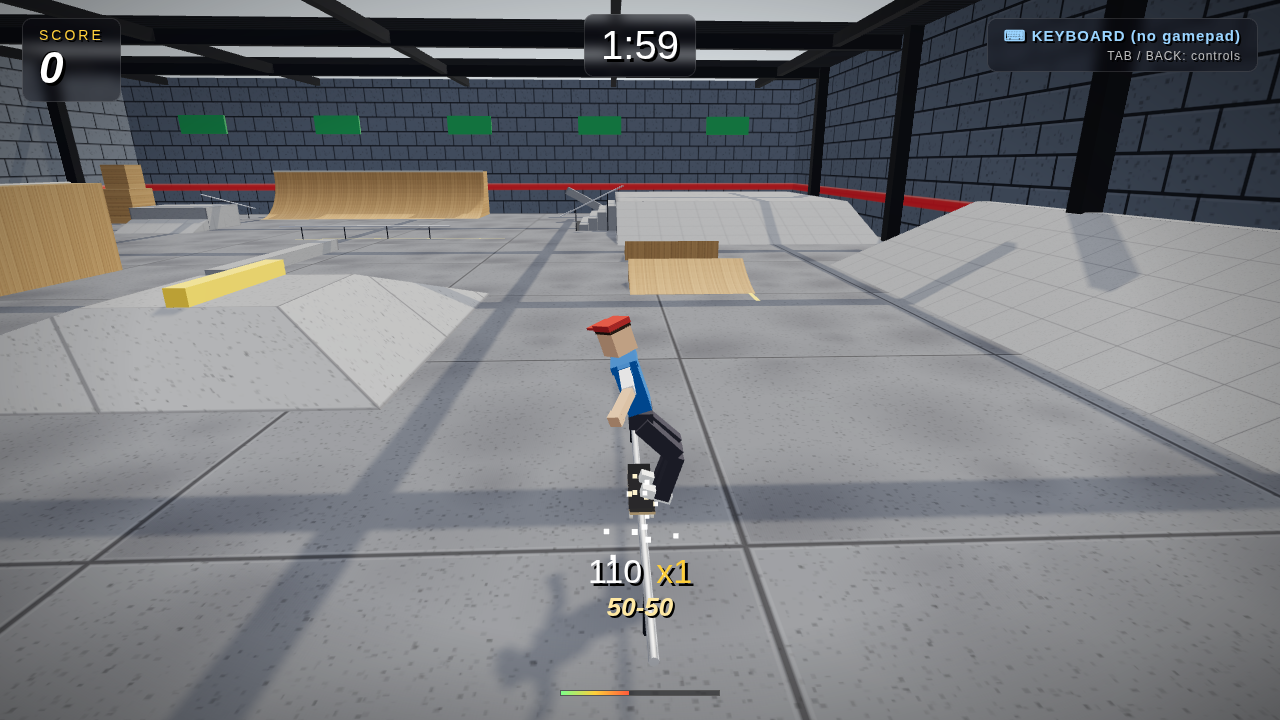
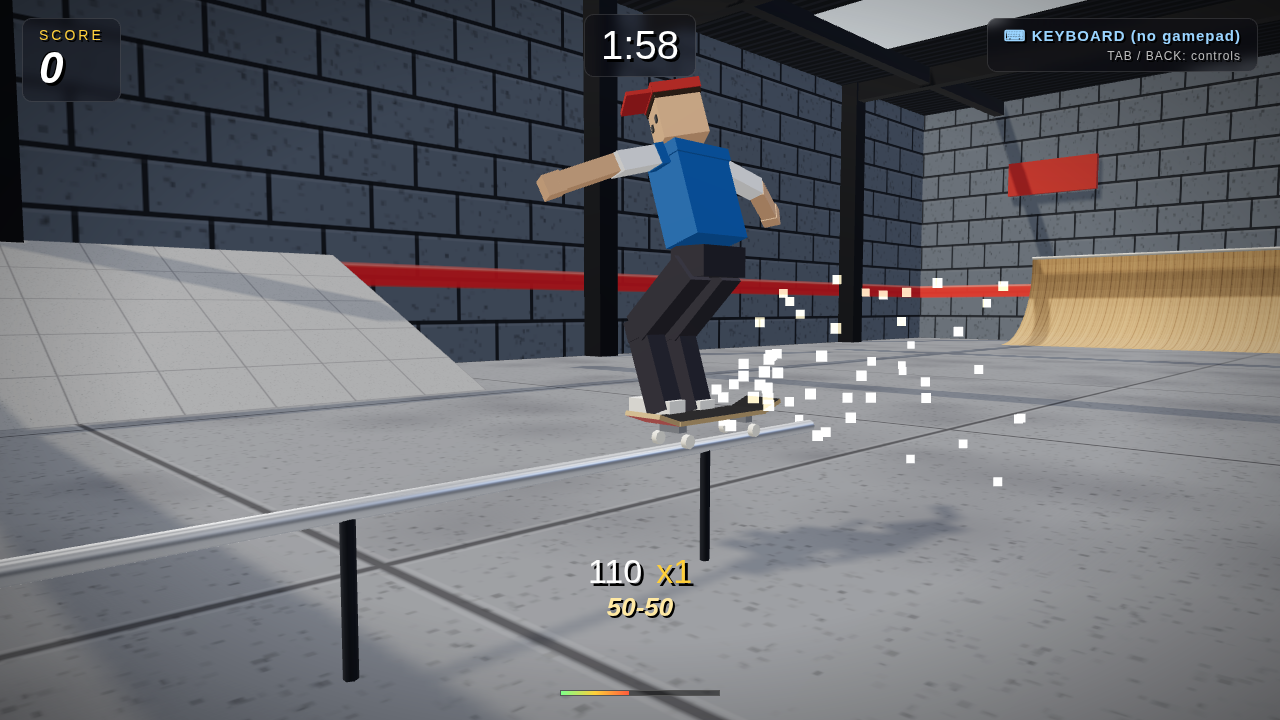
Regular stance, fore-aft push stroke, stronger crouch accel, continuous grind rumble
- Stance: the rig treated +x as the right of travel, but in a right-handed
  frame with +z forward the right is -x, so the skater was riding goofy.
  Rotate the body the other way and swap the arm/leg sides so the left foot
  leads and the chest faces the right of travel. Pose keys that move things
  nose-ward (torsoY, headY, limb Z) get their signs corrected to match, and
  board roll/yaw invert so each flip trick still spins the way it should.
- Push cycle: hip flexion swung the back foot toward the chest, i.e. sideways
  across the board. Replace the two-pose cycle with plant/stroke/return poses
  that swing the leg about the body's nose axis, so the foot plants on the
  ground beside the deck and strokes nose to tail. Hip height now comes from
  the front (standing) leg so the pushing foot reaches the floor, and the
  ankle counter-rotates on both axes to keep the shoe flat.
- Carve lean had the same axis bug: it tilted toward nose/tail rather than
  into the turn. Moved to the nose axis.
- Crouch accel 6.0 -> 9.5 m/s2 with its own 10.8 m/s cap, above the 9.6 m/s
  stick push, so holding crouch is the fastest way to move: 9.3 m/s in one
  second, topped out in ~1.4 s.
- Grinds now rumble continuously via a re-issued dual-rumble pulse, scaled by
  grind speed. Metal rails and coping drive the high-frequency motor, concrete
  ledges a coarser low rumble. Snap and exit keep their one-shot hits.
- README screenshots re-shot with the corrected rig; tuning notes updated.
[…]

diff --git a/src/character.js b/src/character.js
@@ -1,5 +1,8 @@
 // Low-poly procedural skater + board with pose-blend animation.
-// Local frame: +z = nose / travel forward, +y up, +x right. Body faces +x (regular stance).
+// Root frame: +z = nose / travel forward, +y up, so the RIGHT of travel is -x (right-handed frame).
+// The body group is rotated so the chest (+z body) faces root -x: regular stance, left foot forward.
+// Body frame: +x = toward the nose, +z = toward the chest. Pose keys ending in Z swing limbs toward the
+// nose (+) / tail (-); keys ending in X fold limbs toward the chest (+).
 import * as THREE from 'three';
 
 const L1 = 0.42, L2 = 0.42, BOARD_TOP = 0.13;
@@ -24,8 +27,12 @@ export const POSES = {
   method: P({ torsoX: -18, headY: -50, headX: -25, lArmX: 70, lArmZ: 10, lElbow: 45, rArmX: -30, rArmZ: -80, rElbow: 20, lHip: 15, lKnee: 135, rHip: 12, rKnee: 130 }),
   grind: P({ torsoX: 18, headY: -55, lArmX: 0, lArmZ: 75, lElbow: 25, rArmX: 0, rArmZ: -75, rElbow: 25, lHip: 48, lKnee: 68, rHip: 46, rKnee: 64 }),
   bail: P({ torsoX: -35, headX: -25, headY: 0, lArmX: -40, lArmZ: 150, lElbow: 60, rArmX: -40, rArmZ: -150, rElbow: 60, lHip: -15, lKnee: 35, rHip: 20, rKnee: 60, lLegZ: 20, rLegZ: -20 }),
-  pushA: P({ torsoX: 22, headY: -55, lArmX: -20, lArmZ: 20, lElbow: 40, rArmX: 30, rArmZ: -20, rElbow: 30, lHip: 32, lKnee: 48, rHip: 45, rKnee: 30, rLegZ: -18 }),
-  pushB: P({ torsoX: 22, headY: -55, lArmX: 25, lArmZ: 20, lElbow: 40, rArmX: -30, rArmZ: -20, rElbow: 30, lHip: 32, lKnee: 48, rHip: -35, rKnee: 8, rLegZ: -20 }),
+  // push cycle: the back (right) foot leaves the deck, lands beside it on the toe side (rHip) and strokes
+  // nose -> tail along the travel axis (rLegZ + -> -) with a straight knee; the front leg bends so the
+  // pushing foot reaches the ground (deck top is 0.13 m up); the torso turns toward the nose.
+  pushPlant: P({ torsoX: 14, torsoY: -32, headY: -50, lArmX: -15, lArmZ: 18, lElbow: 35, rArmX: 25, rArmZ: -18, rElbow: 30, lHip: 55, lKnee: 80, rHip: 14, rKnee: 3, rLegZ: 20 }),
+  pushStroke: P({ torsoX: 18, torsoY: -24, headY: -50, lArmX: 20, lArmZ: 18, lElbow: 35, rArmX: -25, rArmZ: -18, rElbow: 30, lHip: 55, lKnee: 80, rHip: 14, rKnee: 5, rLegZ: -22 }),
+  pushReturn: P({ torsoX: 16, torsoY: -28, headY: -50, lArmX: 5, lArmZ: 18, lElbow: 35, rArmX: 0, rArmZ: -18, rElbow: 30, lHip: 52, lKnee: 76, rHip: 40, rKnee: 70, rLegZ: -4 }),
 };
 const GRAB_POSE = { Indy: 'indy', Melon: 'melon', Nosegrab: 'nosegrab', Tailgrab: 'tailgrab', Method: 'method', Stalefish: 'melon', Judo: 'method', Airwalk: 'nosegrab' };
 const FLIP_POSE = { Kickflip: 'kickflip', Heelflip: 'heelflip', 'Pop Shove-it': 'shoveit', Impossible: 'shoveit', '360 Flip': 'kickflip', 'Varial Heelflip': 'heelflip', Hardflip: 'kickflip', 'Inward Heelflip': 'heelflip' };
@@ -43,8 +50,8 @@ function box(w, h, d, mat, x = 0, y = 0, z = 0) {
 export class Character {
   constructor() {
     this.root = new THREE.Group();          // placed at skater.pos with skater.modelQuat
-    this.body = new THREE.Group();          // rotated so the chest faces +x
-    this.body.rotation.y = Math.PI / 2;
+    this.body = new THREE.Group();          // rotated so the chest faces root -x (the right of travel: regular)
+    this.body.rotation.y = -Math.PI / 2;
     this.root.add(this.body);
     this.cur = P({}); this.cur.hipsY = STAND_DROP;
     this.pushPhase = 0; this.bobT = 0;
@@ -91,7 +98,7 @@ export class Character {
       el.add(box(0.08, 0.28, 0.08, skin, 0, -0.14, 0)); el.add(box(0.09, 0.08, 0.09, skin, 0, -0.3, 0));
       return { sh, el };
     };
-    this.lArm = arm(-1); this.rArm = arm(1);
+    this.lArm = arm(1); this.rArm = arm(-1); // body +x = nose side = the skater's left (regular stance)
     const leg = (side) => {
       const hp = new THREE.Group(); hp.position.set(side * 0.11, 0, 0); this.hips.add(hp);
       hp.add(box(0.14, L1, 0.15, pants, 0, -L1 / 2, 0));
@@ -102,7 +109,7 @@ export class Character {
       an.add(box(0.11, 0.08, 0.27, shoe, 0, 0, 0.05));
       return { hp, kn, an };
     };
-    this.lLeg = leg(-1); this.rLeg = leg(1); // body -x = toward the nose (front foot = left)
+    this.lLeg = leg(1); this.rLeg = leg(-1); // front foot = left (nose side), back / pushing foot = right
   }
 
   // ---- animation ----
@@ -122,20 +129,25 @@ export class Character {
     } else {
       const c = Math.min(1, sk.crouch + sk.landSquash * 0.7);
       if (sk.pushing > 0 && c < 0.3) {
-        this.pushPhase += dt * 4.2;
-        const s = 0.5 + 0.5 * Math.sin(this.pushPhase);
-        mix(POSES.pushA, s * (1 - c)); mix(POSES.pushB, (1 - s) * (1 - c));
+        // one cycle = 2π: first half the foot is on the ground stroking plant -> back, second half it
+        // lifts (return pose) and swings forward to plant again
+        this.pushPhase += dt * 7.5;
+        const p = this.pushPhase % (Math.PI * 2);
+        let a, b, s;
+        if (p < Math.PI) { a = POSES.pushPlant; b = POSES.pushStroke; s = p / Math.PI; }
+        else { const u = (p - Math.PI) / Math.PI; if (u < 0.5) { a = POSES.pushStroke; b = POSES.pushReturn; s = u * 2; } else { a = POSES.pushReturn; b = POSES.pushPlant; s = (u - 0.5) * 2; } }
+        mix(a, (1 - s) * (1 - c)); mix(b, s * (1 - c));
       } else { mix(POSES.ride, 1 - c); this.pushPhase = 0; }
       mix(POSES.crouch, c);
     }
     // normalise weights
     if (T._w && Math.abs(T._w - 1) > 1e-3) for (const k of KEYS) T[k] /= T._w;
-    // fakie: look the other way
-    if (sk.stance < 0 && st !== 'bail') T.headY = -T.headY;
-    // carve lean
-    T.hipsZ += -sk.lean * 40;
-    // leg drop / hips height
-    const drop = legDrop((T.lHip + T.rHip) / 2, (T.lKnee + T.rKnee) / 2);
+    // fakie: look (and turn the push) the other way
+    if (sk.stance < 0 && st !== 'bail') { T.headY = -T.headY; T.torsoY = -T.torsoY; }
+    // carve lean: tilt sideways into the turn (about the body's nose axis)
+    T.hipsX += sk.lean * 40;
+    // leg drop / hips height from the front (standing) leg, so an extended pushing leg reaches the ground
+    const drop = legDrop(T.lHip, T.lKnee);
     T.hipsY = st === 'air' ? STAND_DROP - 0.06 : drop;
     T._boardLift = st === 'air' ? Math.max(0, STAND_DROP - 0.06 - drop) : 0;
     return T;
@@ -152,16 +164,18 @@ export class Character {
     this.bobT += dt * (2 + sk.speed * 0.4);
     const bob = sk.state === 'ride' ? Math.sin(this.bobT) * 0.006 * Math.min(1, sk.speed / 4) : 0;
     this.hips.position.set(0, BOARD_TOP + c.hipsY + bob, 0);
-    this.hips.rotation.set(c.hipsX * D2R, 0, c.hipsZ * D2R);
-    this.torso.rotation.set(c.torsoX * D2R, c.torsoY * D2R, c.torsoZ * D2R);
-    this.head.rotation.set(c.headX * D2R, c.headY * D2R, 0);
-    this.lArm.sh.rotation.set(-c.lArmX * D2R, 0, -c.lArmZ * D2R);
-    this.rArm.sh.rotation.set(-c.rArmX * D2R, 0, -c.rArmZ * D2R);
+    // Y / Z keys are authored as "toward the nose = negative torsoY / positive limb Z"; body +x is the nose,
+    // so rotations about y/z that should move things nose-ward get the signs below.
+    this.hips.rotation.set(c.hipsX * D2R, 0, -c.hipsZ * D2R);
+    this.torso.rotation.set(c.torsoX * D2R, -c.torsoY * D2R, -c.torsoZ * D2R);
+    this.head.rotation.set(c.headX * D2R, -c.headY * D2R, 0);
+    this.lArm.sh.rotation.set(-c.lArmX * D2R, 0, c.lArmZ * D2R);
+    this.rArm.sh.rotation.set(-c.rArmX * D2R, 0, c.rArmZ * D2R);
     this.lArm.el.rotation.x = -c.lElbow * D2R; this.rArm.el.rotation.x = -c.rElbow * D2R;
     // hips flex forward (knee travels toward the chest, +z), knees fold the shin back behind the thigh;
-    // the ankle counter-rotates so the foot stays flat on the board whatever the squat depth
-    this.lLeg.hp.rotation.set(-c.lHip * D2R, 0, c.lLegZ * D2R); this.lLeg.kn.rotation.x = c.lKnee * D2R; this.lLeg.an.rotation.x = (c.lHip - c.lKnee) * D2R;
-    this.rLeg.hp.rotation.set(-c.rHip * D2R, 0, -c.rLegZ * D2R); this.rLeg.kn.rotation.x = c.rKnee * D2R; this.rLeg.an.rotation.x = (c.rHip - c.rKnee) * D2R;
+    // the ankle counter-rotates on both axes so the foot stays flat whatever the squat depth or leg swing
+    this.lLeg.hp.rotation.set(-c.lHip * D2R, 0, c.lLegZ * D2R); this.lLeg.kn.rotation.x = c.lKnee * D2R; this.lLeg.an.rotation.set((c.lHip - c.lKnee) * D2R, 0, -c.lLegZ * D2R);
+    this.rLeg.hp.rotation.set(-c.rHip * D2R, 0, c.rLegZ * D2R); this.rLeg.kn.rotation.x = c.rKnee * D2R; this.rLeg.an.rotation.set((c.rHip - c.rKnee) * D2R, 0, -c.rLegZ * D2R);
 
     // board: follows feet in the air, flips during flip tricks, tumbles on bail
     const b = this.board;
@@ -173,7 +187,9 @@ export class Character {
         const [r, y, p] = FLIP_SPIN[tr.name] || [1, 0, 0];
         const t = Math.min(1, tr.t / tr.dur);
         const e = t < 1 ? 1 - Math.pow(1 - t, 1.6) : 1; // snappy start, settle at the end
-        b.rotation.set(p * e * Math.PI * 2, y * e * Math.PI * 2, -r * e * Math.PI * 2);
+        // the stance flip mirrored the skater across the board's long axis, so roll and yaw invert
+        // (pitch is about that axis and is unchanged) to keep each trick flipping the way it should
+        b.rotation.set(p * e * Math.PI * 2, -y * e * Math.PI * 2, r * e * Math.PI * 2);
         b.position.y += Math.sin(t * Math.PI) * 0.08;
       } else if (tr && tr.kind === 'grab') {
         b.rotation.x = (tr.name === 'Nosegrab' ? 0.25 : tr.name === 'Tailgrab' ? -0.25 : 0);
@@ -186,10 +202,10 @@ export class Character {
     // whole-body tumble while bailing
     if (sk.state === 'bail') {
       const t = Math.min(1, sk.bailT / 0.5);
-      this.body.rotation.set(0, Math.PI / 2, 0); this.body.rotation.x = 1.35 * t;
+      this.body.rotation.set(0, -Math.PI / 2, 0); this.body.rotation.x = 1.35 * t;
       this.body.position.set(0, -0.5 * t * (STAND_DROP + 0.1) + 0.3 * t, 0.5 * t);
     } else {
-      this.body.rotation.set(0, Math.PI / 2, 0); this.body.position.set(0, 0, 0);
+      this.body.rotation.set(0, -Math.PI / 2, 0); this.body.position.set(0, 0, 0);
     }
   }
 }

diff --git a/src/main.js b/src/main.js
@@ -75,13 +75,13 @@ skater.events.land = (points, text, mult) => {
 skater.events.bail = (reason) => {
   audio.bail();
   fx.burst(skater.pos, 24, [0.8, 0.76, 0.7], 2.5, 0.6);
-  input.rumble(1, 1, 320);
+  input.rumbleSustainStop(); input.rumble(1, 1, 320);
   const why = { wall: 'SLAMMED!', trick: 'BAILED MID-TRICK', sketchy: 'SKETCHY LANDING', void: 'LOST' }[reason] || 'BAILED';
   hud.combo(why + (skater.lostCombo ? '  (' + skater.lostCombo + ')' : ''), 0, 0, true);
 };
 skater.events.trick = () => { audio.trick(); refreshCombo(); };
-skater.events.grindStart = () => { audio.burst(3000, 0.08, 0.3, 'highpass'); input.rumble(0.2, 0.5, 80); refreshCombo(); };
-skater.events.grindEnd = () => refreshCombo();
+skater.events.grindStart = () => { audio.burst(3000, 0.08, 0.3, 'highpass'); input.rumble(0.35, 0.75, 110); input.rumbleSustainStop(); refreshCombo(); };
+skater.events.grindEnd = () => { input.rumbleSustainStop(); input.rumble(0.25, 0.4, 70); refreshCombo(); };
 
 function refreshCombo() {
   const c = skater.combo;
@@ -152,6 +152,13 @@ function frame(now) {
   followCam.update(dt, skater, inp.camX);
   audio.update(skater);
   fx.update(dt, skater);
+  // grinding buzzes continuously: metal (rail / coping) rides the high-frequency motor, concrete ledges
+  // are a coarser low rumble. Both scale with how fast you are travelling along the rail.
+  if (mode === 'playing' && skater.state === 'grind' && skater.grind) {
+    const g = Math.min(1, skater.speed / 10);
+    const metal = skater.grind.rail.kind !== 'ledge';
+    input.rumbleSustain(metal ? 0.1 + g * 0.14 : 0.24 + g * 0.26, metal ? 0.42 + g * 0.38 : 0.2 + g * 0.2, dt);
+  }
   hud.update(dt, skater.score, timeLeft, skater.speed / 14);
   if (skater.combo.tricks.length && skater.state === 'grind') refreshCombo();
   renderer.render(scene, camera);

diff --git a/src/skater.js b/src/skater.js
@@ -8,7 +8,8 @@ export const TUNING = {
   uphillGrav: 0.55,    // ramp assist: slopes slow you less than they speed you up
   maxPush: 9.6,        // top speed from pushing
   pushAcc: 7.5,        // m/s² while pushing (stick up / RT)
-  crouchAcc: 6.0,      // m/s² while holding crouch on the ground (THPS: crouch = speed)
+  crouchAcc: 9.5,      // m/s² while holding crouch on the ground (THPS: crouch = speed)
+  crouchMax: 10.8,     // crouch is the fastest way to go: it tops out above the stick push
   autoPushSpeed: 5.4,  // below this on flat ground the skater pushes by itself
   autoPushAcc: 5.0,
   rollFriction: 0.32,  // constant decel
@@ -153,7 +154,7 @@ export class Skater {
       sp = Math.min(T.maxPush, sp + acc * dt); this.pushing = inp.push;
     }
     // THPS speed model: the skater pushes by himself when slow on flat ground, and holding crouch is the gas pedal
-    if (this.crouching && sp < T.maxPush && inp.brake === 0) sp = Math.min(T.maxPush, sp + T.crouchAcc * dt);
+    if (this.crouching && sp < T.crouchMax && inp.brake === 0) sp = Math.min(T.crouchMax, sp + T.crouchAcc * (sp < 2 ? 1.4 : 1) * dt);
     else if (!this.pushing && !this.crouching && inp.brake === 0 && inp.autoPush !== false && sp < T.autoPushSpeed
       && this.normal.y > 0.92 && this.groundTime > 0.35) {
       sp = Math.min(T.autoPushSpeed, sp + T.autoPushAcc * (sp < 2 ? 1.5 : 1) * dt); this.pushing = 0.8;

diff --git a/src/input.js b/src/input.js
@@ -90,6 +90,16 @@ export class Input {
     try { act.playEffect('dual-rumble', { startDelay: 0, duration: ms, strongMagnitude: strong, weakMagnitude: weak }).catch(() => {}); } catch { /* ignore */ }
   }
 
+  // Continuous rumble for states that last (grinding). playEffect takes a fixed duration, so this
+  // re-issues a slightly longer pulse than the re-trigger interval: the overlap keeps it seamless.
+  rumbleSustain(strong, weak, dt) {
+    this._sustainT = (this._sustainT || 0) - dt;
+    if (this._sustainT > 0) return;
+    this._sustainT = 0.1;
+    this.rumble(strong, weak, 150);
+  }
+  rumbleSustainStop() { this._sustainT = 0; }
+
   poll(dt) {
     const s = this.state;
     const prev = { ollie: s.ollie, grab: s.grab, grind: s.grind };

diff --git a/README.md b/README.md
@@ -62,8 +62,9 @@ Keyboard: arrows / WASD, Space (ollie), J (flip), K (grab), L (grind), Q/E (spin
 
 - Gravity 22 m/s²: snappier than earth, floaty enough for tricks. Tap ollie ≈ 0.9 m / 0.57 s,
   full crouch ≈ 1.7 m / 0.79 s. Flip tricks take 0.38–0.55 s so a tap ollie can still land a kickflip.
-- Holding crouch accelerates at 6 m/s² to the 9.6 m/s cap (rest to top speed in ~2 s); the skater auto-pushes
-  to 5.4 m/s on flat so you never crawl; stick-up / RT push still works on top. Rolling friction is gentle.
+- Holding crouch is the fastest way to move: 9.5 m/s² up to 10.8 m/s, above the 9.6 m/s stick push, so it
+  reaches 9.3 m/s in a second and tops out in about 1.4 s. The skater auto-pushes to 5.4 m/s on flat so you
+  never crawl; stick-up / RT push still works on top. Rolling friction is gentle.
 - Grind magnet: a tap of Y arms 0.6 s; rails within 2.6 m pull at up to 18 m/s² (4.5 m/s max closing speed)
   and snap from 1.3 m away, even when the rail is up to 0.45 m above the feet. In the sim, a line 1.4 m off
   the flat rail with a single tap becomes a 50-50; the same line without the tap lands on the floor.
@@ -72,6 +73,12 @@ Keyboard: arrows / WASD, Space (ollie), J (flip), K (grab), L (grind), Q/E (spin
 - Turn rate 3.1 rad/s at a standstill down to 1.75 rad/s at speed; crouching tightens turns by 30%.
 - Spin 560°/s at full stick, so a full ollie is a comfortable 360 and a tap is a 180.
 - Uphill gravity is scaled by 0.55 so a pushed run reaches every lip; downhill is full gravity.
+- The skater rides regular: left foot forward, chest toward the right of travel. The push cycle plants the
+  back foot on the ground beside the deck and strokes nose→tail along the travel axis, with the front leg
+  bent so the pushing foot actually reaches the floor.
+- Haptics: landings scale rumble with impact, and grinds buzz continuously for as long as you are on the
+  rail. Metal (rails, coping) drives the high-frequency motor; concrete ledges use a coarser low rumble.
+  Both scale with grind speed.
 
 ## Graphics
 
@@ -89,16 +96,16 @@ The home page—press START or ENTER to begin a 2-minute free-skate session.
 
 ![Kickflip](screenshots/closeup_flip.png)
 
-Executing a kickflip mid-air with board rotation, character pose blending, and procedural animation.
+A kickflip caught mid-rotation: the board spins under the tucked legs while the trick name reads out in the HUD.
 
 ### Grind
 
 ![Grind screenshot](screenshots/gfx_grind.png)
 
-A 50-50 grind on a chrome rail showing orange sparks, soft PCF shadows, PBR material reflections, and glass HUD panels.
+A 50-50 down the chrome flat rail, sparks trailing off the trucks, with the live combo readout underneath.
 
 ### Riding
 
 ![Ride screenshot](screenshots/gfx_ride.png)
 
-Riding toward a quarter pipe with ACES tone mapping, image-based lighting, mipmapped textures, and vignette overlay.
+Carving toward the west quarter pipe at speed, in regular stance with the knees loaded over the deck.
